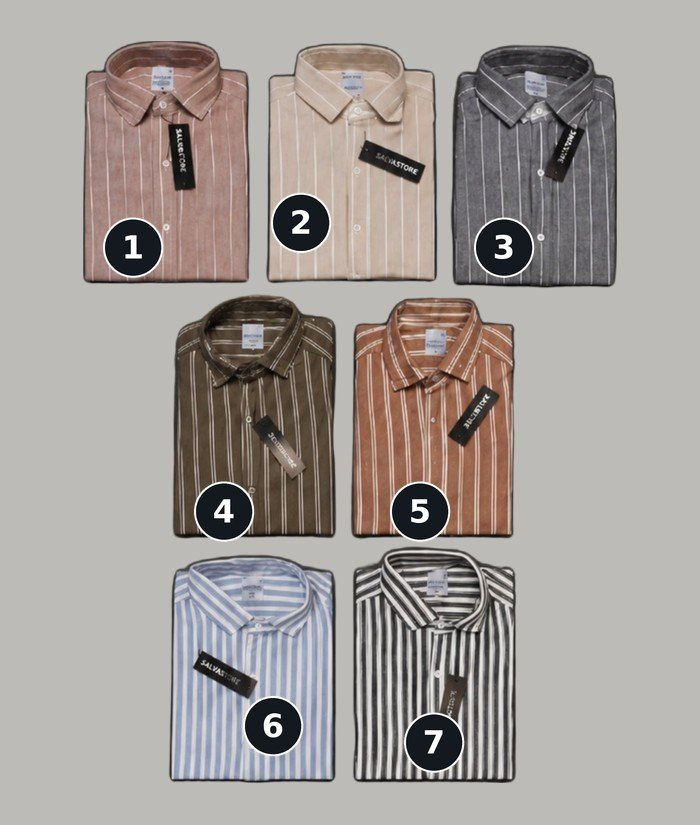
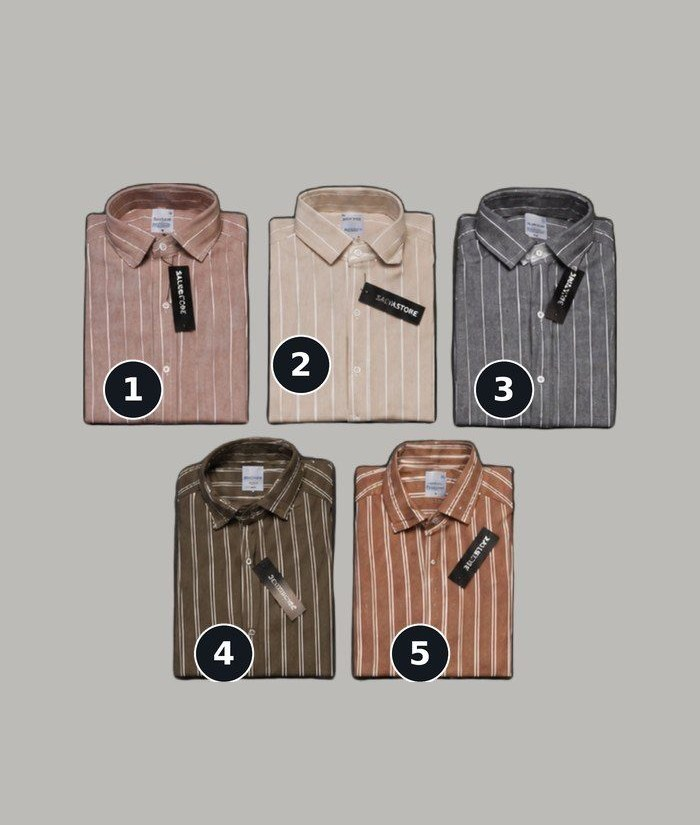
Galo: sacar colores 1-4. Galo Lino: sacar colores 6 y 7
Claude-Session: https://claude.ai/code/session_01NyE71RACmv3pmyAKwAun2o

diff --git a/index.html b/index.html
@@ -158,19 +158,19 @@ input[type=search],input[type=number]{font:500 14px var(--f-body);color:var(--in
   </aside>
 </div>
 <script>
-const DATA=[{"t": "REMERAS LISAS", "i": [{"n": "Flaming", "d": "Corte regular, con bolsillo, tela flame", "p": 13500, "k": "flaming", "m": false, "c": [["Verde militar", "#5d6540"], ["Arena", "#d9bf9c"], ["Negro", "#2a2d31"]]}, {"n": "Manga Corta", "d": "Modal soft", "p": 13500, "k": "manga", "m": false, "c": [["Nude", "#e8cfb8"], ["Mostaza", "#c98a22"], ["Blanco", "#f2f2f0"], ["Durazno", "#e0b99a"], ["Naranja", "#c2561a"], ["Gris", "#a09c98"], ["Camel", "#b99677"], ["Bordó", "#7a1520"], ["Gris claro", "#c3c1bd"], ["Salmón", "#e3a37a"], ["Ciruela", "#5e2040"], ["Gris oscuro", "#55575a"], ["Marrón", "#5a3320"], ["Petróleo", "#125a63"], ["Negro", "#1e1f21"]]}, {"n": "Remera Básica", "d": "Algodón 20/1, corte regular", "p": 16500, "k": "basica", "m": true, "c": [["Gris claro", "#9a9fa0"], ["Gris oscuro", "#4a4d55"], ["Azul marino", "#1f2437"], ["Negro", "#1a1a1c"], ["Blanco", "#f4f4f2"], ["Crudo", "#dcc9a6"], ["Arena", "#e2b768"], ["Marrón", "#5a3b28"]]}, {"n": "Remera Ringer", "d": "Combinada, algodón 20/1", "p": 18000, "k": "ringer_comb", "m": true, "c": [["Blanco y azul", "#6f93b8"], ["Blanco y bordó", "#5e1f2a"], ["Blanco y marrón", "#6b4128"], ["Azul marino y blanco", "#262d4a"], ["Verde y blanco", "#8e9c86"], ["Blanco y verde", "#a3b09a"]]}, {"n": "Remera Modal Soft Botón", "d": "Modal soft, cuello con botones", "p": 19500, "k": "boton", "m": true, "c": [["Beige", "#d9c3a5"], ["Topo", "#a69580"], ["Negro", "#1a1a1c"], ["Blanco", "#f4f4f2"], ["Azul petróleo", "#1f4a63"]]}]}, {"t": "REMERAS NOCHE", "i": [{"n": "Remera Bali", "d": "Textura relieve, cuello redondo", "p": 19500, "k": "bali", "m": true, "c": [["Crudo", "#e6dcc4"], ["Marrón", "#8a6a52"], ["Negro", "#1a1a1c"]]}, {"n": "Remera Mónaco", "d": "Textura relieve, cuello redondo", "p": 19500, "k": "monaco", "m": true, "c": [["Blanco", "#f4f4f2"], ["Crudo", "#e6dcc4"], ["Marrón", "#6b3f2a"], ["Negro", "#1a1a1c"]]}]}, {"t": "REMERAS LISAS OVERSIZE", "i": [{"n": "Oversize Lisa", "d": "Algodón 20/1 premium", "p": 18000, "k": "oversize_lisa", "m": true, "c": [["Gris verdoso", "#b4b8ae"], ["Azul marino", "#1f2a5c"], ["Gris azulado", "#6c7287"], ["Negro", "#1a1a1c"], ["Blanco", "#f4f4f2"], ["Crudo", "#e0d2b4"], ["Camel", "#b7692a"], ["Verde pistacho", "#a2a83a"]]}, {"n": "Amaranto", "d": "Reeb marant", "p": 18000, "k": "amaranto", "m": true, "c": [["Camel", "#c07a3a"], ["Gris", "#a4a7aa"], ["Crudo", "#d9d0b8"], ["Negro", "#1a1a1c"]]}, {"n": "Roman", "d": "Oversize rústico", "p": 19400, "k": "roman", "m": false, "c": [["Gris topo", "#b6ac9d"], ["Beige", "#d9b9a0"], ["Verde agua", "#a9c4a0"]]}, {"n": "Remera Timoty", "d": "Oversize, wafle diferenciado", "p": 18000, "k": "timoty", "m": true, "c": [["Beige", "#d9b99f"], ["Gris claro", "#c9cac7"], ["Gris", "#a5a8a3"], ["Verde oliva", "#6d7347"], ["Gris oscuro", "#4d4f55"]]}, {"n": "Barcelona", "d": "Lanilla rayada", "p": 18000, "k": "barc_rayada", "m": false, "c": [["Crudo rayado", "#e6dcc4"], ["Blanco rayado", "#f4f4f2"], ["Blanco y negro rayado", "#3a3a3a"], ["Gris rayado", "#8d9096"]]}, {"n": "Remera Barcelona", "d": "Oversize", "p": 18000, "k": "barc_over", "m": true, "c": [["Blanco hueso", "#e9e4dc"], ["Beige", "#d5c3a9"], ["Camel", "#c49a6c"], ["Naranja", "#b8622f"], ["Negro", "#1a1a1c"]]}]}, {"t": "REMERAS ESTAMPADAS", "i": [{"n": "FL-06Y", "d": "Corte regular", "p": 18000, "k": "fl06y", "m": false, "c": [["Crudo", "#ece4d0"], ["Gris oscuro", "#55585d"], ["Negro", "#1a1a1c"]]}, {"n": "Property", "d": "Corte regular", "p": 18000, "k": "property", "m": false, "c": [["Bordó", "#7a2430"], ["Crudo", "#e8e1d0"], ["Gris plomo", "#4f5155"]]}, {"n": "Art-Cult", "d": "Corte regular", "p": 18000, "k": "artcult", "m": false, "c": [["Blanco crudo", "#ece8de"], ["Arena", "#d9c48f"], ["Negro", "#1a1a1c"]]}, {"n": "The 80's_90's", "d": "Corte regular", "p": 18000, "k": "80s90s", "m": false, "c": [["Arena", "#d9c48f"], ["Bordó", "#8a3a3c"], ["Negro", "#1a1a1c"]]}, {"n": "Neghbors", "d": "Corte regular, algodón 20/1", "p": 18000, "k": "neghbors", "m": false, "c": [["Gris arena", "#c2b9a0"], ["Arena", "#dcc592"], ["Negro", "#1a1a1c"]]}, {"n": "Couture", "d": "Corte regular, algodón 20/1", "p": 18000, "k": "couture", "m": false, "c": [["Naranja tostado", "#c0681f"], ["Blanco", "#f4f4f2"]]}, {"n": "Outdoor Club", "d": "Corte regular, algodón 20/1", "p": 18000, "k": "outdoor", "m": false, "c": [["Verde oliva", "#8a9279"], ["Blanco", "#f4f4f2"], ["Ladrillo", "#a6503a"]]}, {"n": "Blksmith", "d": "Corte regular, algodón 20/1", "p": 18000, "k": "blksmith", "m": false, "c": [["Negro", "#1a1a1c"], ["Blanco", "#f4f4f2"], ["Verde lima", "#b5c23a"]]}, {"n": "Got Money", "d": "Remera básica, algodón 20/1", "p": 18000, "k": "gotmoney", "m": false, "c": [["Blanco", "#f4f4f2"], ["Azul oscuro", "#2c3446"], ["Crudo", "#ece0b8"]]}, {"n": "Focused", "d": "Oversize, algodón 20/1", "p": 19500, "k": "focused", "m": false, "c": [["Verde", "#1f4a3b"], ["Gris arena", "#a8a291"], ["Marrón", "#5a3b28"]]}, {"n": "Humanbeing", "d": "Oversize, algodón 20/1 teñido, doble estampa", "p": 21000, "k": "humanbeing", "m": false, "c": [["Negro teñido", "#3a3d3b"], ["Marrón teñido", "#5b3a2b"]]}]}, {"t": "CAMISAS DE LINO", "i": [{"n": "Galo", "d": "Lino rígido, corte regular", "p": 25400, "k": "galo9", "m": true, "c": [["", "#000"], ["", "#000"], ["", "#000"], ["", "#000"], ["", "#000"], ["", "#000"], ["", "#000"], ["", "#000"], ["", "#000"]], "num": true}, {"n": "Galo Lino", "d": "Lino rígido", "p": 22400, "k": "galo", "m": true, "c": [["Rosa rayado", "#000"], ["Crema rayado", "#000"], ["Gris rayado", "#000"], ["Verde oliva rayado", "#000"], ["Terracota rayado", "#000"], ["Celeste rayado", "#000"], ["Negro y blanco rayado", "#000"]], "num": true}, {"n": "Alain", "d": "Lino desagujado", "p": 23900, "k": "alain", "m": true, "c": [["Negro", "#000"], ["Gris", "#000"], ["Crudo", "#000"], ["Camel", "#000"]], "num": true}, {"n": "Camisa Sidney", "d": "Lino elastizado, manga larga, corte regular", "p": 24000, "k": "sidney", "m": true, "c": [["Rosa", "#e3bfae"], ["Marrón", "#9a6650"], ["Negro", "#1a1a1c"], ["Crudo", "#ece6d6"]]}, {"n": "Camisa Sidney manga corta", "d": "Lino, manga corta, corte regular", "p": 22350, "k": "sidney_mc", "m": true, "c": [["Negro", "#1a1a1c"], ["Marrón", "#8a5a48"], ["Celeste", "#9dbbe0"], ["Camel", "#d2b49a"], ["Crudo", "#ece6d6"]]}, {"n": "Camisa Sidney rayada", "d": "Lino rígido, manga corta, corte regular", "p": 24000, "k": "sidneyl", "m": true, "num": true, "c": [["Marrón rayado", "#000"], ["Beige rayado", "#000"], ["Azul rayado", "#000"], ["Gris rayado", "#000"], ["Crudo rayado fino", "#000"], ["Gris claro rayado fino", "#000"], ["Camel rayado fino", "#000"], ["Arena rayado fino", "#000"]]}, {"n": "Camisa Maui", "d": "Crochet", "p": 22400, "k": "maui", "m": true, "c": [["Verde salvia", "#8fa58a"], ["Crema", "#e8d5b0"], ["Camel", "#c68a52"]]}, {"n": "Camisa Bari", "d": "Símil lino, corte regular", "p": 22500, "k": "bari", "m": true, "c": [["Blanco", "#f2f1ec"], ["Camel", "#b98a5c"], ["Celeste", "#8fa9cf"], ["Gris", "#a3a4a6"], ["Negro", "#1a1a1c"]]}, {"n": "Camisa Commo", "d": "Lino rígido, corte regular", "p": 24000, "k": "commo", "m": true, "c": [["Gris rayado", "#a19d97"], ["Crudo", "#ece6d2"], ["Azul rayado", "#5f7396"], ["Gris oscuro rayado", "#6b6966"]]}]}, {"t": "CAMISAS DE POPLIN", "i": [{"n": "Camisa Galo", "d": "Poplin elastizado, corte regular", "p": 26900, "k": "camisagalo", "m": true, "c": [["Celeste", "#000"], ["Negro", "#000"], ["Lila clarito", "#000"], ["Verde oliva", "#000"], ["Blanco", "#000"]], "num": true}, {"n": "Camisa Galo rayada", "d": "Poplin rígido, corte regular", "p": 25400, "k": "galorig", "m": true, "c": [["", "#000"], ["", "#000"], ["", "#000"], ["", "#000"], ["", "#000"], ["", "#000"], ["", "#000"], ["", "#000"], ["", "#000"], ["", "#000"], ["", "#000"], ["", "#000"]], "num": true}, {"n": "Camisa Oslo", "d": "Poplin rayado elastizado", "p": 25400, "k": "oslo1", "m": true, "c": [["Blanco rayado", "#000"], ["Azul marino rayado", "#000"], ["Rosa", "#000"], ["Celeste", "#000"]], "num": true}, {"n": "Camisa Oslo · 2", "d": "Poplin elastizado rayado", "p": 25400, "k": "oslo2", "m": true, "c": [["", "#000"], ["", "#000"], ["", "#000"], ["", "#000"], ["", "#000"], ["", "#000"], ["", "#000"], ["", "#000"], ["", "#000"], ["", "#000"], ["", "#000"]], "num": true}]}, {"t": "PANTALONES", "i": [{"n": "Pantalón Pekin", "d": "Lino rígido, corte chino", "p": 33000, "k": "pekin", "m": true, "c": [["Gris topo", "#a89f92"], ["Crudo", "#e3dccb"], ["Camel", "#c5a572"]]}, {"n": "Pantalón Perugia", "d": "Tela four way, bolsillo ojal", "p": 29900, "k": "perugia", "m": true, "c": [["Negro", "#1a1a1c"], ["Gris azulado", "#8d94ad"], ["Crudo", "#dcd3bf"]]}, {"n": "Pantalón Martí", "d": "Lino sastrero, corte recto", "p": 29900, "k": "marti", "m": true, "c": [["Camel", "#b98e64"], ["Crudo", "#ddd3bf"], ["Gris claro", "#c4c4c2"], ["Gris", "#7d7e80"], ["Negro", "#1a1a1c"]]}, {"n": "Pantalón Porto", "d": "Cargo recto, parachute", "p": 33000, "k": "porto", "m": true, "c": [["Beige", "#d9c19a"], ["Verde oliva", "#6d7347"], ["Marrón", "#7a4a2e"]]}, {"n": "Pantalón Budapest", "d": "Corte chino, gabardina", "p": 32900, "k": "budapest", "m": true, "c": [["Arena", "#dfc08a"], ["Topo", "#9a8d80"], ["Verde oliva", "#5f6240"], ["Azul marino", "#1f2a4c"], ["Negro", "#1a1a1c"]]}, {"n": "Pantalón Veneto", "d": "Botón, elástico, corte relax", "p": 29900, "k": "veneto", "m": true, "c": [["Beige", "#d3c4ae"], ["Arena", "#d9b98c"], ["Marrón", "#8a5a3c"], ["Azul marino", "#1f2a4c"], ["Negro", "#1a1a1c"]]}, {"n": "Pantalón Felix", "d": "Sastrero, doble botón, pinzado", "p": 34500, "k": "felix2", "m": true, "c": [["Topo", "#b09d86"], ["Beige", "#d8c3a0"], ["Gris claro", "#9fa1a4"], ["Gris", "#6f7073"]]}, {"n": "Pantalón Felix rayado", "d": "Rayado, sastrero, doble botón", "p": 34500, "k": "felixray", "m": true, "c": [["Gris claro rayado", "#b9bbbd"], ["Negro rayado", "#1a1a1c"], ["Azul marino rayado", "#1f2a4c"]]}, {"n": "Pantalón Zlatan", "d": "Corte recto, scuba sued", "p": 31500, "k": "zlatan", "m": true, "c": [["Beige", "#c9b394"], ["Camel", "#a8693a"], ["Negro", "#1a1a1c"]]}]}, {"t": "BERMUDAS", "i": [{"n": "Bermuda Pekin", "d": "Lino rígido, corte chino", "p": 25500, "k": "bermuda_pekin", "m": true, "tl": ["38", "40", "42", "44", "46", "48", "50"], "c": [["Celeste", "#a9c2df"], ["Blanco", "#ecebe6"], ["Verde oliva", "#7d8a52"], ["Azul marino", "#1f2a4c"]]}, {"n": "Bermuda Morrison", "d": "Corte recto elastizado", "p": 36000, "k": "bermuda", "m": true, "c": [["Negro", "#1a1a1c"], ["Gris", "#8d8a85"]]}, {"n": "Bermuda Gussy", "d": "Jean rígido, corte regular", "p": 45000, "k": "gussy", "m": true, "c": [["Celeste claro", "#a9bfd8"], ["Celeste", "#8aa6c4"], ["Azul", "#5b7ca3"], ["Gris nevado", "#8c8984"]]}]}, {"t": "JEANS", "i": [{"n": "Jean Manchester", "d": "Negro, nevado y gris", "p": 44900, "k": "mancho", "m": true, "c": [["Negro", "#1a1a1c"], ["Nevado", "#7f7b76"], ["Gris", "#a29d96"]]}, {"n": "Jean Manchester azul", "d": "Elastizado, recto", "p": 44900, "k": "azul", "m": false, "c": [["Celeste", "#9dbbdb"], ["Azul", "#4c6a96"], ["Azul oscuro", "#25304a"]]}, {"n": "Jean Robert", "d": "Cargo recto, jean rígido", "p": 50900, "k": "robert", "m": true, "c": [["Celeste claro", "#b7c3d0"], ["Beige", "#d9c3a8"], ["Rosado", "#d6b2a3"], ["Marrón", "#4a2a24"]]}]}, {"t": "ABRIGO", "i": [{"n": "Campera PU", "d": "Cuero PU, interior abrigado", "p": 52500, "k": "campera_pu", "m": false, "c": [["Negro", "#1a1a1c"]]}, {"n": "Campera The Crabe's", "d": "Deportivo", "p": 36000, "k": "campera", "m": true, "c": [["Verde", "#6f8a6a"], ["Gris", "#5b5f66"], ["Negro", "#1a1a1c"]]}, {"n": "Sweter Ancona", "d": "Wafle liviano", "p": 18000, "k": "ancona", "m": true, "c": [["Camel", "#d4a574"], ["Gris", "#b3b5b8"], ["Marrón", "#6b3a30"], ["Negro", "#2a2a2d"]]}]}, {"t": "ACCESORIOS", "i": [{"n": "Neceser", "d": "Cuero ecológico negro", "p": 15000, "k": "neceser", "m": false, "c": [["Negro", "#1a1a1c"]]}, {"n": "Riñonera", "d": "Cuero ecológico negro", "p": 15000, "k": "rinonera", "m": false, "c": [["Negro", "#1a1a1c"]]}, {"n": "Morral", "d": "Cuero ecológico negro", "p": 15000, "k": "morral", "m": false, "c": [["Negro", "#1a1a1c"]]}, {"n": "Porta Cel", "d": "Cuero ecológico negro", "p": 15000, "k": "portacel", "m": false, "c": [["Negro", "#1a1a1c"]]}, {"n": "Boxer", "d": "Algodón y lycra", "p": 11300, "k": "boxer", "m": true, "c": [["Blanco", "#f4f4f2"], ["Gris", "#9d948d"], ["Azul marino", "#1f2a4c"], ["Negro", "#1a1a1c"]]}]}];
+const DATA=[{"t": "REMERAS LISAS", "i": [{"n": "Flaming", "d": "Corte regular, con bolsillo, tela flame", "p": 13500, "k": "flaming", "m": false, "c": [["Verde militar", "#5d6540"], ["Arena", "#d9bf9c"], ["Negro", "#2a2d31"]]}, {"n": "Manga Corta", "d": "Modal soft", "p": 13500, "k": "manga", "m": false, "c": [["Nude", "#e8cfb8"], ["Mostaza", "#c98a22"], ["Blanco", "#f2f2f0"], ["Durazno", "#e0b99a"], ["Naranja", "#c2561a"], ["Gris", "#a09c98"], ["Camel", "#b99677"], ["Bordó", "#7a1520"], ["Gris claro", "#c3c1bd"], ["Salmón", "#e3a37a"], ["Ciruela", "#5e2040"], ["Gris oscuro", "#55575a"], ["Marrón", "#5a3320"], ["Petróleo", "#125a63"], ["Negro", "#1e1f21"]]}, {"n": "Remera Básica", "d": "Algodón 20/1, corte regular", "p": 16500, "k": "basica", "m": true, "c": [["Gris claro", "#9a9fa0"], ["Gris oscuro", "#4a4d55"], ["Azul marino", "#1f2437"], ["Negro", "#1a1a1c"], ["Blanco", "#f4f4f2"], ["Crudo", "#dcc9a6"], ["Arena", "#e2b768"], ["Marrón", "#5a3b28"]]}, {"n": "Remera Ringer", "d": "Combinada, algodón 20/1", "p": 18000, "k": "ringer_comb", "m": true, "c": [["Blanco y azul", "#6f93b8"], ["Blanco y bordó", "#5e1f2a"], ["Blanco y marrón", "#6b4128"], ["Azul marino y blanco", "#262d4a"], ["Verde y blanco", "#8e9c86"], ["Blanco y verde", "#a3b09a"]]}, {"n": "Remera Modal Soft Botón", "d": "Modal soft, cuello con botones", "p": 19500, "k": "boton", "m": true, "c": [["Beige", "#d9c3a5"], ["Topo", "#a69580"], ["Negro", "#1a1a1c"], ["Blanco", "#f4f4f2"], ["Azul petróleo", "#1f4a63"]]}]}, {"t": "REMERAS NOCHE", "i": [{"n": "Remera Bali", "d": "Textura relieve, cuello redondo", "p": 19500, "k": "bali", "m": true, "c": [["Crudo", "#e6dcc4"], ["Marrón", "#8a6a52"], ["Negro", "#1a1a1c"]]}, {"n": "Remera Mónaco", "d": "Textura relieve, cuello redondo", "p": 19500, "k": "monaco", "m": true, "c": [["Blanco", "#f4f4f2"], ["Crudo", "#e6dcc4"], ["Marrón", "#6b3f2a"], ["Negro", "#1a1a1c"]]}]}, {"t": "REMERAS LISAS OVERSIZE", "i": [{"n": "Oversize Lisa", "d": "Algodón 20/1 premium", "p": 18000, "k": "oversize_lisa", "m": true, "c": [["Gris verdoso", "#b4b8ae"], ["Azul marino", "#1f2a5c"], ["Gris azulado", "#6c7287"], ["Negro", "#1a1a1c"], ["Blanco", "#f4f4f2"], ["Crudo", "#e0d2b4"], ["Camel", "#b7692a"], ["Verde pistacho", "#a2a83a"]]}, {"n": "Amaranto", "d": "Reeb marant", "p": 18000, "k": "amaranto", "m": true, "c": [["Camel", "#c07a3a"], ["Gris", "#a4a7aa"], ["Crudo", "#d9d0b8"], ["Negro", "#1a1a1c"]]}, {"n": "Roman", "d": "Oversize rústico", "p": 19400, "k": "roman", "m": false, "c": [["Gris topo", "#b6ac9d"], ["Beige", "#d9b9a0"], ["Verde agua", "#a9c4a0"]]}, {"n": "Remera Timoty", "d": "Oversize, wafle diferenciado", "p": 18000, "k": "timoty", "m": true, "c": [["Beige", "#d9b99f"], ["Gris claro", "#c9cac7"], ["Gris", "#a5a8a3"], ["Verde oliva", "#6d7347"], ["Gris oscuro", "#4d4f55"]]}, {"n": "Barcelona", "d": "Lanilla rayada", "p": 18000, "k": "barc_rayada", "m": false, "c": [["Crudo rayado", "#e6dcc4"], ["Blanco rayado", "#f4f4f2"], ["Blanco y negro rayado", "#3a3a3a"], ["Gris rayado", "#8d9096"]]}, {"n": "Remera Barcelona", "d": "Oversize", "p": 18000, "k": "barc_over", "m": true, "c": [["Blanco hueso", "#e9e4dc"], ["Beige", "#d5c3a9"], ["Camel", "#c49a6c"], ["Naranja", "#b8622f"], ["Negro", "#1a1a1c"]]}]}, {"t": "REMERAS ESTAMPADAS", "i": [{"n": "FL-06Y", "d": "Corte regular", "p": 18000, "k": "fl06y", "m": false, "c": [["Crudo", "#ece4d0"], ["Gris oscuro", "#55585d"], ["Negro", "#1a1a1c"]]}, {"n": "Property", "d": "Corte regular", "p": 18000, "k": "property", "m": false, "c": [["Bordó", "#7a2430"], ["Crudo", "#e8e1d0"], ["Gris plomo", "#4f5155"]]}, {"n": "Art-Cult", "d": "Corte regular", "p": 18000, "k": "artcult", "m": false, "c": [["Blanco crudo", "#ece8de"], ["Arena", "#d9c48f"], ["Negro", "#1a1a1c"]]}, {"n": "The 80's_90's", "d": "Corte regular", "p": 18000, "k": "80s90s", "m": false, "c": [["Arena", "#d9c48f"], ["Bordó", "#8a3a3c"], ["Negro", "#1a1a1c"]]}, {"n": "Neghbors", "d": "Corte regular, algodón 20/1", "p": 18000, "k": "neghbors", "m": false, "c": [["Gris arena", "#c2b9a0"], ["Arena", "#dcc592"], ["Negro", "#1a1a1c"]]}, {"n": "Couture", "d": "Corte regular, algodón 20/1", "p": 18000, "k": "couture", "m": false, "c": [["Naranja tostado", "#c0681f"], ["Blanco", "#f4f4f2"]]}, {"n": "Outdoor Club", "d": "Corte regular, algodón 20/1", "p": 18000, "k": "outdoor", "m": false, "c": [["Verde oliva", "#8a9279"], ["Blanco", "#f4f4f2"], ["Ladrillo", "#a6503a"]]}, {"n": "Blksmith", "d": "Corte regular, algodón 20/1", "p": 18000, "k": "blksmith", "m": false, "c": [["Negro", "#1a1a1c"], ["Blanco", "#f4f4f2"], ["Verde lima", "#b5c23a"]]}, {"n": "Got Money", "d": "Remera básica, algodón 20/1", "p": 18000, "k": "gotmoney", "m": false, "c": [["Blanco", "#f4f4f2"], ["Azul oscuro", "#2c3446"], ["Crudo", "#ece0b8"]]}, {"n": "Focused", "d": "Oversize, algodón 20/1", "p": 19500, "k": "focused", "m": false, "c": [["Verde", "#1f4a3b"], ["Gris arena", "#a8a291"], ["Marrón", "#5a3b28"]]}, {"n": "Humanbeing", "d": "Oversize, algodón 20/1 teñido, doble estampa", "p": 21000, "k": "humanbeing", "m": false, "c": [["Negro teñido", "#3a3d3b"], ["Marrón teñido", "#5b3a2b"]]}]}, {"t": "CAMISAS DE LINO", "i": [{"n": "Galo", "d": "Lino rígido, corte regular", "p": 25400, "k": "galo9", "m": true, "c": [["", "#000"], ["", "#000"], ["", "#000"], ["", "#000"], ["", "#000"]], "num": true, "no": [5, 6, 7, 8, 9]}, {"n": "Galo Lino", "d": "Lino rígido", "p": 22400, "k": "galo", "m": true, "c": [["Rosa rayado", "#000"], ["Crema rayado", "#000"], ["Gris rayado", "#000"], ["Verde oliva rayado", "#000"], ["Terracota rayado", "#000"]], "num": true, "no": [1, 2, 3, 4, 5]}, {"n": "Alain", "d": "Lino desagujado", "p": 23900, "k": "alain", "m": true, "c": [["Negro", "#000"], ["Gris", "#000"], ["Crudo", "#000"], ["Camel", "#000"]], "num": true}, {"n": "Camisa Sidney", "d": "Lino elastizado, manga larga, corte regular", "p": 24000, "k": "sidney", "m": true, "c": [["Rosa", "#e3bfae"], ["Marrón", "#9a6650"], ["Negro", "#1a1a1c"], ["Crudo", "#ece6d6"]]}, {"n": "Camisa Sidney manga corta", "d": "Lino, manga corta, corte regular", "p": 22350, "k": "sidney_mc", "m": true, "c": [["Negro", "#1a1a1c"], ["Marrón", "#8a5a48"], ["Celeste", "#9dbbe0"], ["Camel", "#d2b49a"], ["Crudo", "#ece6d6"]]}, {"n": "Camisa Sidney rayada", "d": "Lino rígido, manga corta, corte regular", "p": 24000, "k": "sidneyl", "m": true, "num": true, "c": [["Marrón rayado", "#000"], ["Beige rayado", "#000"], ["Azul rayado", "#000"], ["Gris rayado", "#000"], ["Crudo rayado fino", "#000"], ["Gris claro rayado fino", "#000"], ["Camel rayado fino", "#000"], ["Arena rayado fino", "#000"]]}, {"n": "Camisa Maui", "d": "Crochet", "p": 22400, "k": "maui", "m": true, "c": [["Verde salvia", "#8fa58a"], ["Crema", "#e8d5b0"], ["Camel", "#c68a52"]]}, {"n": "Camisa Bari", "d": "Símil lino, corte regular", "p": 22500, "k": "bari", "m": true, "c": [["Blanco", "#f2f1ec"], ["Camel", "#b98a5c"], ["Celeste", "#8fa9cf"], ["Gris", "#a3a4a6"], ["Negro", "#1a1a1c"]]}, {"n": "Camisa Commo", "d": "Lino rígido, corte regular", "p": 24000, "k": "commo", "m": true, "c": [["Gris rayado", "#a19d97"], ["Crudo", "#ece6d2"], ["Azul rayado", "#5f7396"], ["Gris oscuro rayado", "#6b6966"]]}]}, {"t": "CAMISAS DE POPLIN", "i": [{"n": "Camisa Galo", "d": "Poplin elastizado, corte regular", "p": 26900, "k": "camisagalo", "m": true, "c": [["Celeste", "#000"], ["Negro", "#000"], ["Lila clarito", "#000"], ["Verde oliva", "#000"], ["Blanco", "#000"]], "num": true}, {"n": "Camisa Galo rayada", "d": "Poplin rígido, corte regular", "p": 25400, "k": "galorig", "m": true, "c": [["", "#000"], ["", "#000"], ["", "#000"], ["", "#000"], ["", "#000"], ["", "#000"], ["", "#000"], ["", "#000"], ["", "#000"], ["", "#000"], ["", "#000"], ["", "#000"]], "num": true}, {"n": "Camisa Oslo", "d": "Poplin rayado elastizado", "p": 25400, "k": "oslo1", "m": true, "c": [["Blanco rayado", "#000"], ["Azul marino rayado", "#000"], ["Rosa", "#000"], ["Celeste", "#000"]], "num": true}, {"n": "Camisa Oslo · 2", "d": "Poplin elastizado rayado", "p": 25400, "k": "oslo2", "m": true, "c": [["", "#000"], ["", "#000"], ["", "#000"], ["", "#000"], ["", "#000"], ["", "#000"], ["", "#000"], ["", "#000"], ["", "#000"], ["", "#000"], ["", "#000"]], "num": true}]}, {"t": "PANTALONES", "i": [{"n": "Pantalón Pekin", "d": "Lino rígido, corte chino", "p": 33000, "k": "pekin", "m": true, "c": [["Gris topo", "#a89f92"], ["Crudo", "#e3dccb"], ["Camel", "#c5a572"]]}, {"n": "Pantalón Perugia", "d": "Tela four way, bolsillo ojal", "p": 29900, "k": "perugia", "m": true, "c": [["Negro", "#1a1a1c"], ["Gris azulado", "#8d94ad"], ["Crudo", "#dcd3bf"]]}, {"n": "Pantalón Martí", "d": "Lino sastrero, corte recto", "p": 29900, "k": "marti", "m": true, "c": [["Camel", "#b98e64"], ["Crudo", "#ddd3bf"], ["Gris claro", "#c4c4c2"], ["Gris", "#7d7e80"], ["Negro", "#1a1a1c"]]}, {"n": "Pantalón Porto", "d": "Cargo recto, parachute", "p": 33000, "k": "porto", "m": true, "c": [["Beige", "#d9c19a"], ["Verde oliva", "#6d7347"], ["Marrón", "#7a4a2e"]]}, {"n": "Pantalón Budapest", "d": "Corte chino, gabardina", "p": 32900, "k": "budapest", "m": true, "c": [["Arena", "#dfc08a"], ["Topo", "#9a8d80"], ["Verde oliva", "#5f6240"], ["Azul marino", "#1f2a4c"], ["Negro", "#1a1a1c"]]}, {"n": "Pantalón Veneto", "d": "Botón, elástico, corte relax", "p": 29900, "k": "veneto", "m": true, "c": [["Beige", "#d3c4ae"], ["Arena", "#d9b98c"], ["Marrón", "#8a5a3c"], ["Azul marino", "#1f2a4c"], ["Negro", "#1a1a1c"]]}, {"n": "Pantalón Felix", "d": "Sastrero, doble botón, pinzado", "p": 34500, "k": "felix2", "m": true, "c": [["Topo", "#b09d86"], ["Beige", "#d8c3a0"], ["Gris claro", "#9fa1a4"], ["Gris", "#6f7073"]]}, {"n": "Pantalón Felix rayado", "d": "Rayado, sastrero, doble botón", "p": 34500, "k": "felixray", "m": true, "c": [["Gris claro rayado", "#b9bbbd"], ["Negro rayado", "#1a1a1c"], ["Azul marino rayado", "#1f2a4c"]]}, {"n": "Pantalón Zlatan", "d": "Corte recto, scuba sued", "p": 31500, "k": "zlatan", "m": true, "c": [["Beige", "#c9b394"], ["Camel", "#a8693a"], ["Negro", "#1a1a1c"]]}]}, {"t": "BERMUDAS", "i": [{"n": "Bermuda Pekin", "d": "Lino rígido, corte chino", "p": 25500, "k": "bermuda_pekin", "m": true, "tl": ["38", "40", "42", "44", "46", "48", "50"], "c": [["Celeste", "#a9c2df"], ["Blanco", "#ecebe6"], ["Verde oliva", "#7d8a52"], ["Azul marino", "#1f2a4c"]]}, {"n": "Bermuda Morrison", "d": "Corte recto elastizado", "p": 36000, "k": "bermuda", "m": true, "c": [["Negro", "#1a1a1c"], ["Gris", "#8d8a85"]]}, {"n": "Bermuda Gussy", "d": "Jean rígido, corte regular", "p": 45000, "k": "gussy", "m": true, "c": [["Celeste claro", "#a9bfd8"], ["Celeste", "#8aa6c4"], ["Azul", "#5b7ca3"], ["Gris nevado", "#8c8984"]]}]}, {"t": "JEANS", "i": [{"n": "Jean Manchester", "d": "Negro, nevado y gris", "p": 44900, "k": "mancho", "m": true, "c": [["Negro", "#1a1a1c"], ["Nevado", "#7f7b76"], ["Gris", "#a29d96"]]}, {"n": "Jean Manchester azul", "d": "Elastizado, recto", "p": 44900, "k": "azul", "m": false, "c": [["Celeste", "#9dbbdb"], ["Azul", "#4c6a96"], ["Azul oscuro", "#25304a"]]}, {"n": "Jean Robert", "d": "Cargo recto, jean rígido", "p": 50900, "k": "robert", "m": true, "c": [["Celeste claro", "#b7c3d0"], ["Beige", "#d9c3a8"], ["Rosado", "#d6b2a3"], ["Marrón", "#4a2a24"]]}]}, {"t": "ABRIGO", "i": [{"n": "Campera PU", "d": "Cuero PU, interior abrigado", "p": 52500, "k": "campera_pu", "m": false, "c": [["Negro", "#1a1a1c"]]}, {"n": "Campera The Crabe's", "d": "Deportivo", "p": 36000, "k": "campera", "m": true, "c": [["Verde", "#6f8a6a"], ["Gris", "#5b5f66"], ["Negro", "#1a1a1c"]]}, {"n": "Sweter Ancona", "d": "Wafle liviano", "p": 18000, "k": "ancona", "m": true, "c": [["Camel", "#d4a574"], ["Gris", "#b3b5b8"], ["Marrón", "#6b3a30"], ["Negro", "#2a2a2d"]]}]}, {"t": "ACCESORIOS", "i": [{"n": "Neceser", "d": "Cuero ecológico negro", "p": 15000, "k": "neceser", "m": false, "c": [["Negro", "#1a1a1c"]]}, {"n": "Riñonera", "d": "Cuero ecológico negro", "p": 15000, "k": "rinonera", "m": false, "c": [["Negro", "#1a1a1c"]]}, {"n": "Morral", "d": "Cuero ecológico negro", "p": 15000, "k": "morral", "m": false, "c": [["Negro", "#1a1a1c"]]}, {"n": "Porta Cel", "d": "Cuero ecológico negro", "p": 15000, "k": "portacel", "m": false, "c": [["Negro", "#1a1a1c"]]}, {"n": "Boxer", "d": "Algodón y lycra", "p": 11300, "k": "boxer", "m": true, "c": [["Blanco", "#f4f4f2"], ["Gris", "#9d948d"], ["Azul marino", "#1f2a4c"], ["Negro", "#1a1a1c"]]}]}];
 const WA="5491178132005", WA_MAY="5491140794797", LIMIT=200000, OFF=0.15;
 const $=s=>document.querySelector(s), money=n=>"$ "+Math.round(n).toLocaleString("es-AR");
 const TOPS=["S","M","L","XL","XXL"], BOTT=["38","40","42","44","46","48"];
 const sizesFor=(sec,it)=>it.tl?it.tl:sec.startsWith("PANT")||sec==="JEANS"||sec==="BERMUDAS"?BOTT:(sec==="ACCESORIOS"&&it.n!=="Boxer")?[]:TOPS;
 let cart=[]; try{cart=JSON.parse(localStorage.getItem("salva-cart")||"[]")}catch(e){}
 const save=()=>{try{localStorage.setItem("salva-cart",JSON.stringify(cart))}catch(e){}};
-const lbl=(it,i)=>"Color "+(i+1)+(it.c[i][0]?" · "+it.c[i][0]:"");
+const lbl=(it,i)=>"Color "+(it.no?it.no[i]:i+1)+(it.c[i][0]?" · "+it.c[i][0]:"");
 const title=t=>t.charAt(0)+t.slice(1).toLowerCase();
 const id=(t)=>"s-"+t.toLowerCase().replace(/[^a-z]+/g,"-");
 $("#chips").innerHTML=DATA.map(s=>`<a href="#${id(s.t)}" data-go="${id(s.t)}">${title(s.t)}</a>`).join("")+`<a href="https://wa.me/${WA_MAY}?text=${encodeURIComponent("Hola SALVASTORE! Quiero consultar por compras mayoristas.")}" target="_blank" rel="noopener" class="may">Mayoristas</a>`;
 $("#chips").addEventListener("click",e=>{const a=e.target.closest("a");if(!a||!a.dataset.go)return;e.preventDefault();document.getElementById(a.dataset.go).scrollIntoView({behavior:"smooth"})});
-function optsHTML(it,secT){const sz=sizesFor(secT,it);return `<div class="opts">${it.num?`<div class="lab">Elegido: <b class="cn">${lbl(it,0)}</b></div><div class="sw nums" role="radiogroup" aria-label="Color de ${it.n}">${it.c.map((c,i)=>`<button type="button" role="radio" aria-checked="${i==0}" aria-label="${lbl(it,i)}" data-c="${lbl(it,i)}">${i+1}</button>`).join("")}</div><div class="hint">Elegí el número que ves en la foto.</div>`:it.c.length>1?`<div class="lab">Color: <b class="cn">${it.c[0][0]}</b></div><div class="sw" role="radiogroup" aria-label="Color de ${it.n}">${it.c.map((c,i)=>`<button type="button" role="radio" aria-checked="${i==0}" aria-label="${c[0]}" title="${c[0]}" data-c="${c[0]}" style="--c:${c[1]}" class="${/rayad/.test(c[0])?"st":""}"></button>`).join("")}</div>`:`<div class="lab">Color: <b class="cn">${it.c[0][0]}</b></div>`}
+function optsHTML(it,secT){const sz=sizesFor(secT,it);return `<div class="opts">${it.num?`<div class="lab">Elegido: <b class="cn">${lbl(it,0)}</b></div><div class="sw nums" role="radiogroup" aria-label="Color de ${it.n}">${it.c.map((c,i)=>`<button type="button" role="radio" aria-checked="${i==0}" aria-label="${lbl(it,i)}" data-c="${lbl(it,i)}">${it.no?it.no[i]:i+1}</button>`).join("")}</div><div class="hint">Elegí el número que ves en la foto.</div>`:it.c.length>1?`<div class="lab">Color: <b class="cn">${it.c[0][0]}</b></div><div class="sw" role="radiogroup" aria-label="Color de ${it.n}">${it.c.map((c,i)=>`<button type="button" role="radio" aria-checked="${i==0}" aria-label="${c[0]}" title="${c[0]}" data-c="${c[0]}" style="--c:${c[1]}" class="${/rayad/.test(c[0])?"st":""}"></button>`).join("")}</div>`:`<div class="lab">Color: <b class="cn">${it.c[0][0]}</b></div>`}
   ${sz.length?`<div class="lab" style="margin-top:6px">Talle</div><div class="szrow" role="radiogroup" aria-label="Talle de ${it.n}">${sz.map((z,i)=>`<button type="button" role="radio" aria-checked="${i==0}" data-z="${z}">${z}</button>`).join("")}</div>`:""}</div>`}
 $("#cat").innerHTML=DATA.map(sec=>`<section id="${id(sec.t)}"><h2>${sec.t}</h2><div class="grid">`+sec.i.map(it=>{
   return `<article class="item" data-k="${it.k}" data-s="${sec.t}"><div class="ph${it.m?"":" solo"}" data-open="${it.k}" role="button" tabindex="0" aria-label="Ver ${it.n}"><img class="a" loading="lazy" src="img/${it.k}.jpg" alt="${it.n}">${it.m?`<img class="b" loading="lazy" src="img/${it.k}_p.jpg" alt="${it.n} puesta">`:""}</div>
@@ -233,7 +233,7 @@ $("#copy").onclick=async()=>{if(!cart.length)return;const b=$("#copy");try{await
 /* buscador, filtros y orden */
 const FAMS={"Negro":/negro/,"Blanco":/blanco/,"Gris":/gris|nevado|plomo/,"Crudo y beige":/crudo|crema|beige|arena|nude|hueso|topo|durazno/,"Camel y marrón":/camel|marrón|terracota|ladrillo|naranja|mostaza|salm/,"Azul":/azul|celeste|marino/,"Verde":/verde|oliva|salvia|militar|lima|pistacho|agua|petróleo/,"Rosa y bordó":/rosa|bordó|ciruela|lila/};
 const FHEX={"Negro":"#1a1a1c","Blanco":"#f4f4f2","Gris":"#9a9da0","Crudo y beige":"#dcc9a6","Camel y marrón":"#a8693a","Azul":"#3f5f96","Verde":"#6d7347","Rosa y bordó":"#b4506a","Rayado":"repeating-linear-gradient(90deg,#555 0 2px,#f4f4f2 2px 4px)"};
-const MAN={galo9:["Crudo y beige","Azul","Gris","Blanco","Camel y marrón","Rayado"],galorig:["Azul","Blanco","Rosa y bordó","Gris","Rayado"],oslo2:["Azul","Rosa y bordó","Blanco","Crudo y beige","Rayado"]};
+const MAN={galo9:["Blanco","Crudo y beige","Camel y marrón","Gris","Rayado"],galorig:["Azul","Blanco","Rosa y bordó","Gris","Rayado"],oslo2:["Azul","Rosa y bordó","Blanco","Crudo y beige","Rayado"]};
 DATA.forEach(s=>s.i.forEach(it=>{const f=new Set(MAN[it.k]||[]);it.c.forEach(c=>{const n=c[0].toLowerCase();for(const k in FAMS)if(FAMS[k].test(n))f.add(k);if(/rayad/.test(n))f.add("Rayado")});it.f=f;it.sz=sizesFor(s.t,it);it.sec=s.t}));
 const ALL=DATA.flatMap(s=>s.i);const node=k=>document.querySelector('.item[data-k="'+k+'"]');
 const ST={q:"",fam:new Set(),sz:new Set(),min:0,max:Infinity,sort:""};
